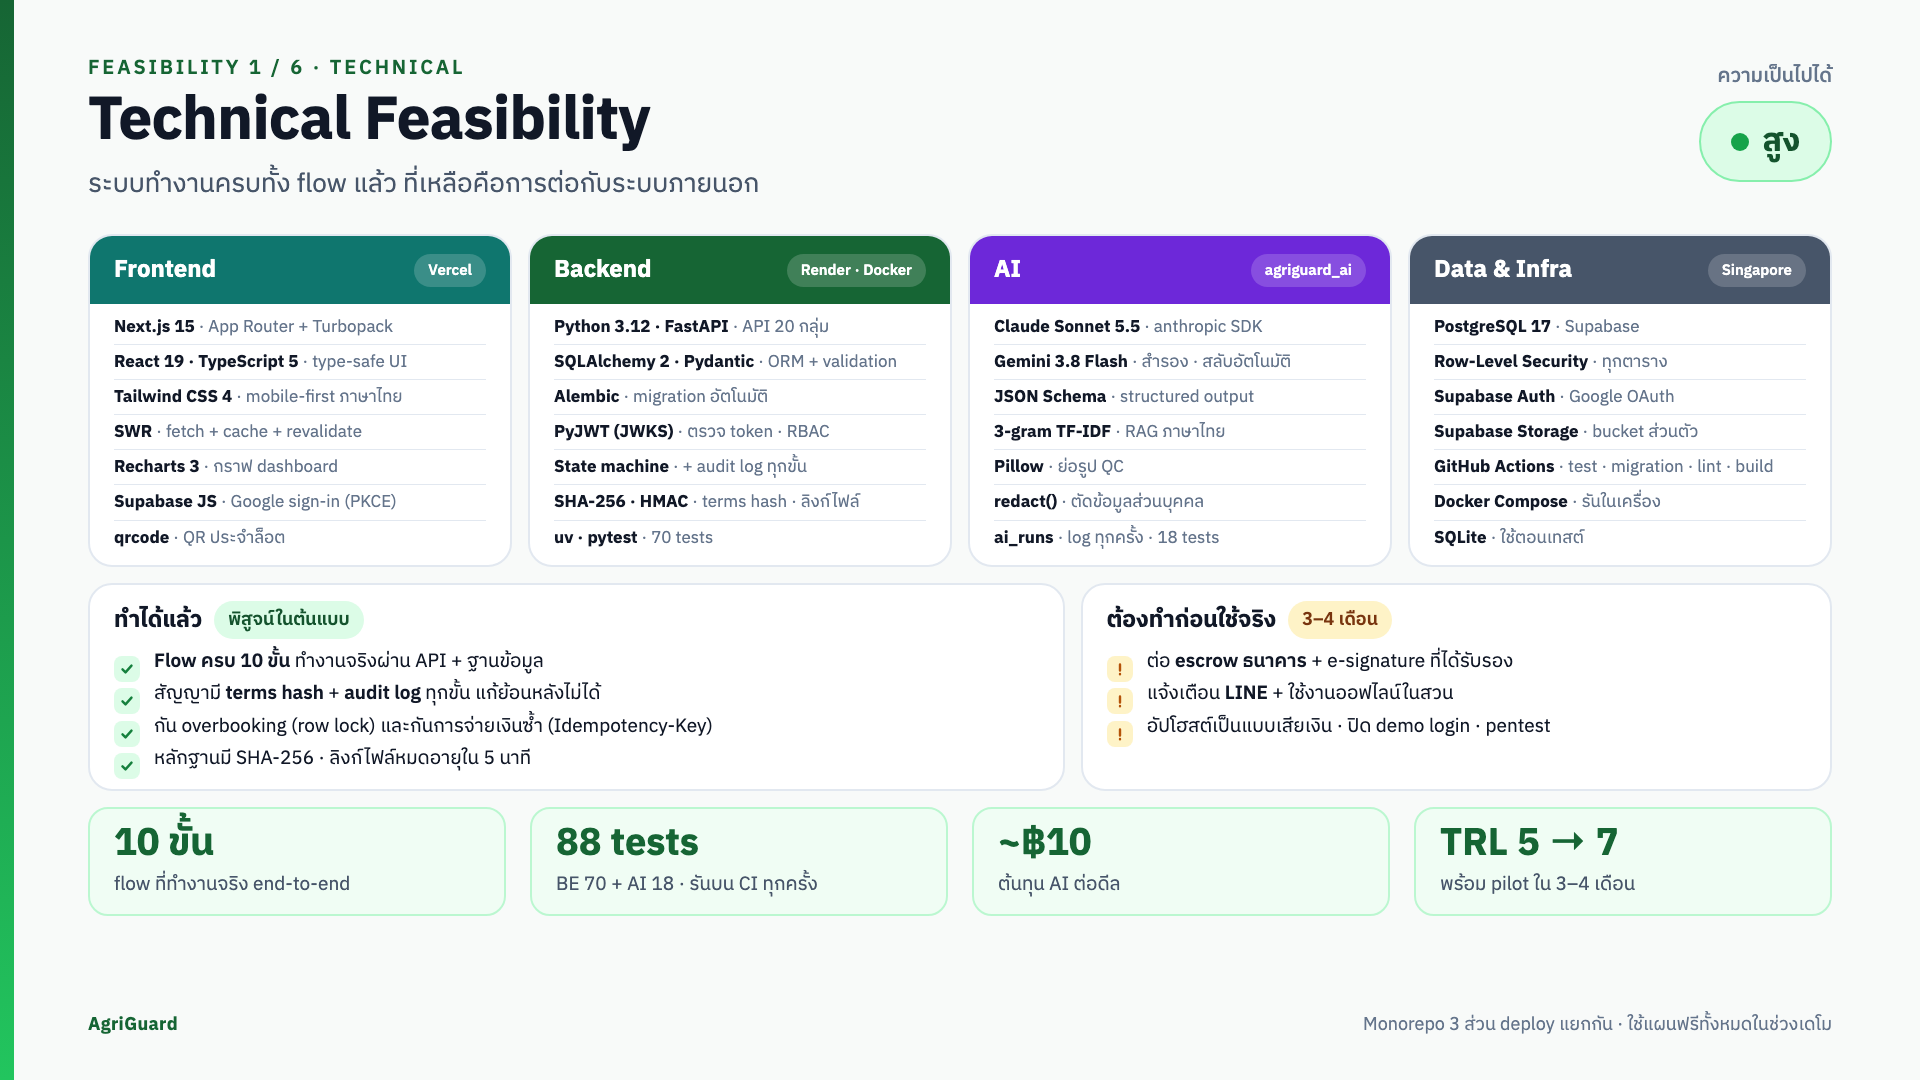
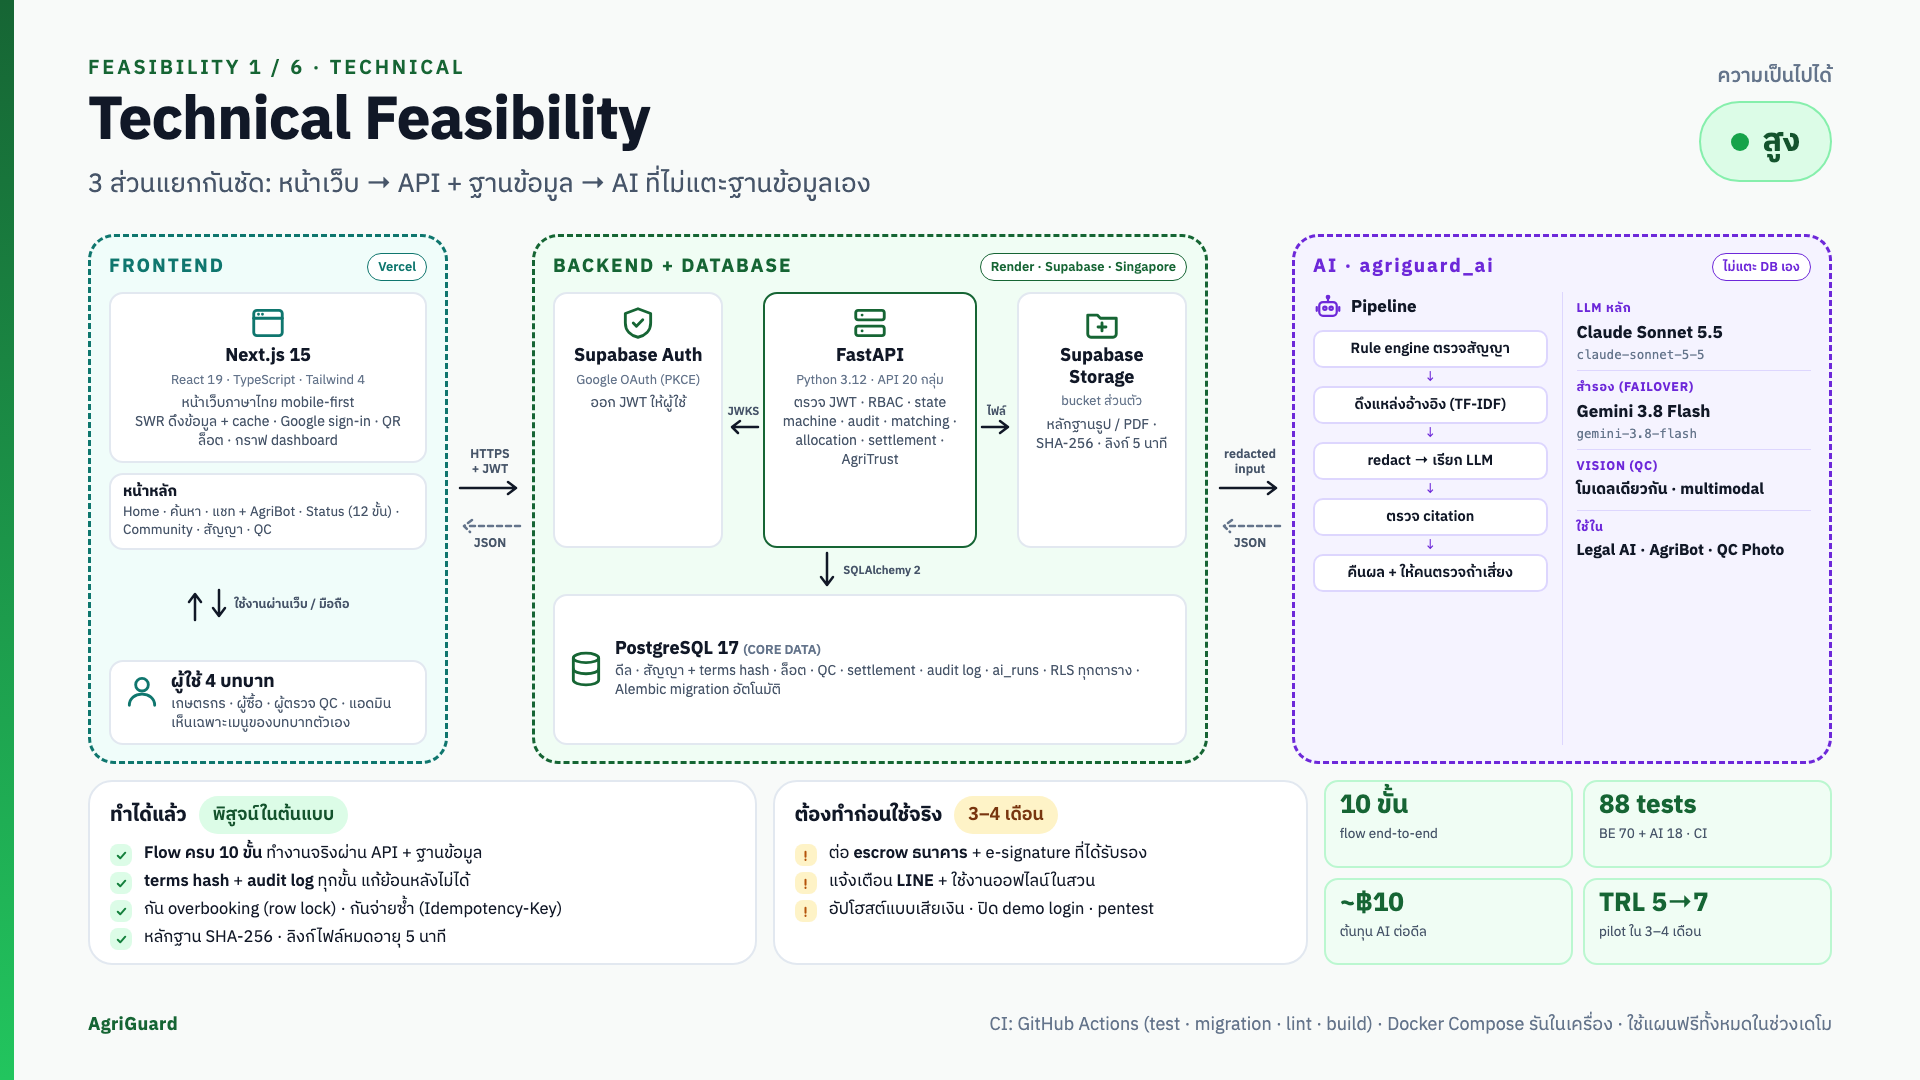
Docs : Show the technical slide as a frontend, backend and AI architecture diagram
- Three zones with arrows (Next.js -> FastAPI + Supabase Auth/Storage + PostgreSQL -> agriguard_ai) and what each part does
- AI zone lists the shared pipeline and the models (Claude Sonnet 5.5, Gemini 3.8 Flash failover)

diff --git a/Appendix/Deck/slides.html b/Appendix/Deck/slides.html
@@ -273,6 +273,47 @@
   #d2 .aitable tr.grp td { padding: 6px 12px 3px; }
   #d2 .pp { padding: 7px 11px; }
   .flowt.tight td.no { font-size: 20px; }
+
+  /* architecture zones (technical slide) */
+  .arch3 { display: grid; grid-template-columns: 360px 84px 1fr 84px 540px; height: 530px; }
+  .z-ai .pl .ic { width: 30px; height: 30px; }
+  .zone { border: 3px dashed; border-radius: 26px; padding: 14px 18px 16px; display: flex; flex-direction: column; min-height: 0; }
+  .zone .zt { font-size: 19px; font-weight: 700; letter-spacing: .1em; margin-bottom: 10px; display: flex; justify-content: space-between; align-items: center; }
+  .zone .zt span { font-size: 13px; font-weight: 600; letter-spacing: 0; background: #fff; border: 1.5px solid currentColor; padding: 2px 10px; border-radius: 999px; }
+  .z-fe { background: #F0FDFA; border-color: #0F766E; } .z-fe .zt { color: #0F766E; }
+  .z-be { background: #F0FDF4; border-color: #166534; } .z-be .zt { color: #166534; }
+  .z-ai { background: #F5F3FF; border-color: #6D28D9; } .z-ai .zt { color: #6D28D9; }
+  .nd { background: #fff; border: 2px solid var(--border); border-radius: 14px; padding: 10px 12px; display: flex; gap: 10px; align-items: flex-start; }
+  .nd.v { flex-direction: column; align-items: center; text-align: center; gap: 4px; }
+  .nd .ic { flex: none; width: 38px; height: 38px; }
+  .nd .nm { font-size: 18px; font-weight: 700; line-height: 1.2; color: var(--ink); }
+  .nd .tc { font-size: 13px; color: var(--muted); line-height: 1.3; }
+  .nd .rl { font-size: 14px; color: var(--ink2); line-height: 1.35; margin-top: 2px; }
+  .z-fe .ic { color: #0F766E; } .z-be .ic { color: #166534; } .z-ai .ic { color: #6D28D9; }
+  .link { display: flex; flex-direction: column; justify-content: center; align-items: center; gap: 22px; }
+  .link .lk { display: flex; flex-direction: column; align-items: center; gap: 2px; }
+  .link .lb { font-size: 12.5px; color: var(--ink2); text-align: center; line-height: 1.25; font-weight: 600; }
+  .vlink { display: flex; align-items: center; justify-content: center; gap: 8px; font-size: 12.5px; font-weight: 600; color: var(--ink2); }
+  .begrid { display: grid; grid-template-columns: 1fr 40px 1.25fr 40px 1fr; grid-template-rows: auto 46px auto; align-items: stretch; flex: 1; }
+  .begrid .ha { display: flex; flex-direction: column; align-items: center; justify-content: center; font-size: 11.5px; color: var(--ink2); font-weight: 600; text-align: center; line-height: 1.2; }
+  .aigrid { display: grid; grid-template-columns: 1fr 1px 1fr; gap: 14px; flex: 1; min-height: 0; }
+  .aigrid .div { background: #DDD6FE; }
+  .steps2 { display: flex; flex-direction: column; align-items: stretch; gap: 0; }
+  .steps2 .st { background: #fff; border: 2px solid #DDD6FE; border-radius: 10px; padding: 5px 10px; font-size: 14.5px; font-weight: 600; text-align: center; }
+  .steps2 .dn { text-align: center; color: #6D28D9; font-size: 14px; line-height: 1; padding: 2px 0; }
+  .mdl { padding: 6px 0 8px; border-bottom: 1px solid #DDD6FE; }
+  .mdl:last-child { border-bottom: none; }
+  .mdl .k { font-size: 12.5px; font-weight: 700; color: #6D28D9; letter-spacing: .06em; }
+  .mdl .n { font-size: 17px; font-weight: 700; }
+  .mdl .c { font-size: 12.5px; color: var(--muted); font-family: ui-monospace, "SF Mono", Menlo, monospace; }
+  .bottom3 { display: grid; grid-template-columns: 1.25fr 1fr 0.95fr; gap: 16px; }
+  .bottom3 .card { padding: 14px 20px; }
+  .bottom3 h3 { font-size: 20px; margin-bottom: 8px; }
+  .bottom3 ul.list li { font-size: 16.5px; padding-left: 34px; }
+  .bottom3 ul.list li::before { width: 22px; height: 22px; top: 2px; background-size: 15px; }
+  .mstats { display: grid; grid-template-columns: 1fr 1fr; gap: 10px; }
+  .mstats .stat { padding: 9px 14px; border-radius: 14px; }
+  .mstats .stat .n { font-size: 26px; } .mstats .stat .l { font-size: 13.5px; }
 </style>
 </head>
 <body>
@@ -282,52 +323,92 @@
     <div>
       <div class="eyebrow">Feasibility 1 / 6 · Technical</div>
       <h1>Technical Feasibility</h1>
-      <div class="sub">ระบบทำงานครบทั้ง flow แล้ว ที่เหลือคือการต่อกับระบบภายนอก</div>
+      <div class="sub">3 ส่วนแยกกันชัด: หน้าเว็บ → API + ฐานข้อมูล → AI ที่ไม่แตะฐานข้อมูลเอง</div>
     </div>
     <div class="verdict"><small>ความเป็นไปได้</small><div class="pill v-high"><i></i>สูง</div></div>
   </header>
-  <div class="body" style="grid-template-rows: auto auto auto; gap: 16px; align-content: start;">
-    <div class="stack4">
-      <div class="col fe"><div class="hd"><b>Frontend</b><span>Vercel</span></div><div class="rows">
-        <div class="li"><b>Next.js 15</b> · App Router + Turbopack</div><div class="li"><b>React 19 · TypeScript 5</b> · type-safe UI</div><div class="li"><b>Tailwind CSS 4</b> · mobile-first ภาษาไทย</div><div class="li"><b>SWR</b> · fetch + cache + revalidate</div><div class="li"><b>Recharts 3</b> · กราฟ dashboard</div><div class="li"><b>Supabase JS</b> · Google sign-in (PKCE)</div><div class="li"><b>qrcode</b> · QR ประจำล็อต</div>
-      </div></div>
-      <div class="col be"><div class="hd"><b>Backend</b><span>Render · Docker</span></div><div class="rows">
-        <div class="li"><b>Python 3.12 · FastAPI</b> · API 20 กลุ่ม</div><div class="li"><b>SQLAlchemy 2 · Pydantic</b> · ORM + validation</div><div class="li"><b>Alembic</b> · migration อัตโนมัติ</div><div class="li"><b>PyJWT (JWKS)</b> · ตรวจ token · RBAC</div><div class="li"><b>State machine</b> · + audit log ทุกขั้น</div><div class="li"><b>SHA-256 · HMAC</b> · terms hash · ลิงก์ไฟล์</div><div class="li"><b>uv · pytest</b> · 70 tests</div>
-      </div></div>
-      <div class="col ai"><div class="hd"><b>AI</b><span>agriguard_ai</span></div><div class="rows">
-        <div class="li"><b>Claude Sonnet 5.5</b> · anthropic SDK</div><div class="li"><b>Gemini 3.8 Flash</b> · สำรอง · สลับอัตโนมัติ</div><div class="li"><b>JSON Schema</b> · structured output</div><div class="li"><b>3-gram TF-IDF</b> · RAG ภาษาไทย</div><div class="li"><b>Pillow</b> · ย่อรูป QC</div><div class="li"><b>redact()</b> · ตัดข้อมูลส่วนบุคคล</div><div class="li"><b>ai_runs</b> · log ทุกครั้ง · 18 tests</div>
-      </div></div>
-      <div class="col inf"><div class="hd"><b>Data &amp; Infra</b><span>Singapore</span></div><div class="rows">
-        <div class="li"><b>PostgreSQL 17</b> · Supabase</div><div class="li"><b>Row-Level Security</b> · ทุกตาราง</div><div class="li"><b>Supabase Auth</b> · Google OAuth</div><div class="li"><b>Supabase Storage</b> · bucket ส่วนตัว</div><div class="li"><b>GitHub Actions</b> · test · migration · lint · build</div><div class="li"><b>Docker Compose</b> · รันในเครื่อง</div><div class="li"><b>SQLite</b> · ใช้ตอนเทสต์</div>
-      </div></div>
+  <div class="body" style="grid-template-rows: auto auto; gap: 16px; align-content: start;">
+    <div class="arch3">
+      <div class="zone z-fe">
+        <div class="zt">FRONTEND <span>Vercel</span></div>
+        <div class="nd v"><svg class="ic" viewBox="0 0 24 24" fill="none" stroke="currentColor" stroke-width="1.8" stroke-linecap="round" stroke-linejoin="round"><rect x="3" y="4" width="18" height="16" rx="2"/><path d="M3 9h18"/><path d="M6 6.5h.01M8.5 6.5h.01"/></svg><div class="nm">Next.js 15</div><div class="tc">React 19 · TypeScript · Tailwind 4</div>
+          <div class="rl">หน้าเว็บภาษาไทย mobile-first<br>SWR ดึงข้อมูล + cache · Google sign-in · QR ล็อต · กราฟ dashboard</div></div>
+        <div class="nd" style="margin-top: 10px; padding: 8px 12px;"><div><div class="nm" style="font-size: 15px;">หน้าหลัก</div><div class="rl" style="font-size: 13.5px;">Home · ค้นหา · แชท + AgriBot · Status (12 ขั้น) · Community · สัญญา · QC</div></div></div>
+        <div class="vlink" style="flex: 1;"><svg width="16" height="34" viewBox="0 0 16 34"><path d="M8 32V8M2 14l6-8 6 8" fill="none" stroke="#111827" stroke-width="2.5" stroke-linecap="round" stroke-linejoin="round"/></svg><svg width="16" height="34" viewBox="0 0 16 34"><path d="M8 2v26M2 20l6 8 6-8" fill="none" stroke="#111827" stroke-width="2.5" stroke-linecap="round" stroke-linejoin="round"/></svg><span>ใช้งานผ่านเว็บ / มือถือ</span></div>
+        <div class="nd"><svg class="ic" viewBox="0 0 24 24" fill="none" stroke="currentColor" stroke-width="1.8" stroke-linecap="round" stroke-linejoin="round"><circle cx="12" cy="8" r="4"/><path d="M4 21c0-4.4 3.6-7 8-7s8 2.6 8 7"/></svg><div><div class="nm">ผู้ใช้ 4 บทบาท</div><div class="rl">เกษตรกร · ผู้ซื้อ · ผู้ตรวจ QC · แอดมิน<br>เห็นเฉพาะเมนูของบทบาทตัวเอง</div></div></div>
+      </div>
+      <div class="link">
+        <div class="lk"><div class="lb">HTTPS<br>+ JWT</div><svg width="64" height="16" viewBox="0 0 64 16"><path d="M2 8h56M50 2l8 6-8 6" fill="none" stroke="#111827" stroke-width="2.5" stroke-linecap="round" stroke-linejoin="round"/></svg></div>
+        <div class="lk"><svg width="64" height="16" viewBox="0 0 64 16"><path d="M62 8H8M14 2L6 8l6 6" fill="none" stroke="#64748B" stroke-width="2.5" stroke-linecap="round" stroke-linejoin="round" stroke-dasharray="5 4"/></svg><div class="lb">JSON</div></div>
+      </div>
+      <div class="zone z-be">
+        <div class="zt">BACKEND + DATABASE <span>Render · Supabase · Singapore</span></div>
+        <div class="begrid">
+          <div class="nd v"><svg class="ic" viewBox="0 0 24 24" fill="none" stroke="currentColor" stroke-width="1.8" stroke-linecap="round" stroke-linejoin="round"><path d="M12 3l8 3v6c0 5-3.5 8-8 9-4.5-1-8-4-8-9V6z"/><path d="M9 12l2 2 4-4"/></svg><div class="nm">Supabase Auth</div><div class="tc">Google OAuth (PKCE)</div><div class="rl">ออก JWT ให้ผู้ใช้</div></div>
+          <div class="ha">JWKS<svg width="34" height="16" viewBox="0 0 34 16"><path d="M32 8H8M14 2L6 8l6 6" fill="none" stroke="#111827" stroke-width="2.5" stroke-linecap="round" stroke-linejoin="round"/></svg></div>
+          <div class="nd v" style="border-color:#166534;"><svg class="ic" viewBox="0 0 24 24" fill="none" stroke="currentColor" stroke-width="1.8" stroke-linecap="round" stroke-linejoin="round"><rect x="3" y="4" width="18" height="6" rx="1.5"/><rect x="3" y="14" width="18" height="6" rx="1.5"/><path d="M7 7h.01M7 17h.01"/></svg><div class="nm">FastAPI</div><div class="tc">Python 3.12 · API 20 กลุ่ม</div><div class="rl">ตรวจ JWT · RBAC · state machine · audit · matching · allocation · settlement · AgriTrust</div></div>
+          <div class="ha">ไฟล์<svg width="34" height="16" viewBox="0 0 34 16"><path d="M2 8h26M20 2l8 6-8 6" fill="none" stroke="#111827" stroke-width="2.5" stroke-linecap="round" stroke-linejoin="round"/></svg></div>
+          <div class="nd v"><svg class="ic" viewBox="0 0 24 24" fill="none" stroke="currentColor" stroke-width="1.8" stroke-linecap="round" stroke-linejoin="round"><path d="M3 7h6l2 2h10v10a2 2 0 0 1-2 2H5a2 2 0 0 1-2-2z"/><path d="M12 12v5M9.5 14.5h5"/></svg><div class="nm">Supabase Storage</div><div class="tc">bucket ส่วนตัว</div><div class="rl">หลักฐานรูป / PDF · SHA-256 · ลิงก์ 5 นาที</div></div>
+          <div></div><div></div>
+          <div class="ha" style="flex-direction: row; gap: 8px;"><svg width="16" height="40" viewBox="0 0 16 40"><path d="M8 2v32M2 26l6 8 6-8" fill="none" stroke="#111827" stroke-width="2.5" stroke-linecap="round" stroke-linejoin="round"/></svg><span>SQLAlchemy 2</span></div>
+          <div></div><div></div>
+          <div class="nd" style="grid-column: 1 / 6; align-items: center;"><svg class="ic" viewBox="0 0 24 24" fill="none" stroke="currentColor" stroke-width="1.8" stroke-linecap="round" stroke-linejoin="round"><ellipse cx="12" cy="5" rx="8" ry="3"/><path d="M4 5v14c0 1.7 3.6 3 8 3s8-1.3 8-3V5"/><path d="M4 12c0 1.7 3.6 3 8 3s8-1.3 8-3"/></svg><div><div class="nm">PostgreSQL 17 <span style="font-size: 13px; color: var(--muted); font-weight: 600;">(CORE DATA)</span></div><div class="rl">ดีล · สัญญา + terms hash · ล็อต · QC · settlement · audit log · ai_runs · RLS ทุกตาราง · Alembic migration อัตโนมัติ</div></div></div>
+        </div>
+      </div>
+      <div class="link">
+        <div class="lk"><div class="lb">redacted<br>input</div><svg width="64" height="16" viewBox="0 0 64 16"><path d="M2 8h56M50 2l8 6-8 6" fill="none" stroke="#111827" stroke-width="2.5" stroke-linecap="round" stroke-linejoin="round"/></svg></div>
+        <div class="lk"><svg width="64" height="16" viewBox="0 0 64 16"><path d="M62 8H8M14 2L6 8l6 6" fill="none" stroke="#64748B" stroke-width="2.5" stroke-linecap="round" stroke-linejoin="round" stroke-dasharray="5 4"/></svg><div class="lb">JSON</div></div>
+      </div>
+      <div class="zone z-ai">
+        <div class="zt">AI · agriguard_ai <span>ไม่แตะ DB เอง</span></div>
+        <div class="aigrid">
+          <div>
+            <div class="pl" style="display:flex; align-items:center; gap: 8px; margin-bottom: 8px;"><svg class="ic" viewBox="0 0 24 24" fill="none" stroke="currentColor" stroke-width="1.8" stroke-linecap="round" stroke-linejoin="round"><rect x="5" y="8" width="14" height="11" rx="3"/><circle cx="9.5" cy="13" r="1.3"/><circle cx="14.5" cy="13" r="1.3"/><path d="M12 8V5"/><circle cx="12" cy="4" r="1"/><path d="M3 12v3M21 12v3"/></svg><div class="nm" style="font-size: 17px; font-weight: 700;">Pipeline</div></div>
+            <div class="steps2">
+              <div class="st">Rule engine ตรวจสัญญา</div><div class="dn">↓</div>
+              <div class="st">ดึงแหล่งอ้างอิง (TF-IDF)</div><div class="dn">↓</div>
+              <div class="st">redact → เรียก LLM</div><div class="dn">↓</div>
+              <div class="st">ตรวจ citation</div><div class="dn">↓</div>
+              <div class="st">คืนผล + ให้คนตรวจถ้าเสี่ยง</div>
+            </div>
+          </div>
+          <div class="div"></div>
+          <div>
+            <div class="mdl"><div class="k">LLM หลัก</div><div class="n">Claude Sonnet 5.5</div><div class="c">claude-sonnet-5-5</div></div>
+            <div class="mdl"><div class="k">สำรอง (FAILOVER)</div><div class="n">Gemini 3.8 Flash</div><div class="c">gemini-3.8-flash</div></div>
+            <div class="mdl"><div class="k">VISION (QC)</div><div class="n" style="font-size: 15.5px;">โมเดลเดียวกัน · multimodal</div></div>
+            <div class="mdl"><div class="k">ใช้ใน</div><div class="n" style="font-size: 15.5px;">Legal AI · AgriBot · QC Photo</div></div>
+          </div>
+        </div>
+      </div>
     </div>
-    <div style="display:grid; grid-template-columns: 1.3fr 1fr; gap: 16px;">
-      <div class="card" style="padding: 16px 24px;">
-        <h3 style="font-size: 23px; margin-bottom: 10px;">ทำได้แล้ว <span class="tag ok">พิสูจน์ในต้นแบบ</span></h3>
-        <ul class="list check" style="gap: 6px;">
-          <li style="font-size: 19px;"><b>Flow ครบ 10 ขั้น</b> ทำงานจริงผ่าน API + ฐานข้อมูล</li>
-          <li style="font-size: 19px;">สัญญามี <b>terms hash</b> + <b>audit log</b> ทุกขั้น แก้ย้อนหลังไม่ได้</li>
-          <li style="font-size: 19px;">กัน overbooking (row lock) และกันการจ่ายเงินซ้ำ (Idempotency-Key)</li>
-          <li style="font-size: 19px;">หลักฐานมี SHA-256 · ลิงก์ไฟล์หมดอายุใน 5 นาที</li>
+    <div class="bottom3">
+      <div class="card">
+        <h3>ทำได้แล้ว <span class="tag ok">พิสูจน์ในต้นแบบ</span></h3>
+        <ul class="list check" style="gap: 5px;">
+          <li><b>Flow ครบ 10 ขั้น</b> ทำงานจริงผ่าน API + ฐานข้อมูล</li>
+          <li><b>terms hash</b> + <b>audit log</b> ทุกขั้น แก้ย้อนหลังไม่ได้</li>
+          <li>กัน overbooking (row lock) · กันจ่ายซ้ำ (Idempotency-Key)</li>
+          <li>หลักฐาน SHA-256 · ลิงก์ไฟล์หมดอายุ 5 นาที</li>
         </ul>
       </div>
-      <div class="card" style="padding: 16px 24px;">
-        <h3 style="font-size: 23px; margin-bottom: 10px;">ต้องทำก่อนใช้จริง <span class="tag todo">3–4 เดือน</span></h3>
-        <ul class="list todo" style="gap: 6px;">
-          <li style="font-size: 19px;">ต่อ <b>escrow ธนาคาร</b> + e-signature ที่ได้รับรอง</li>
-          <li style="font-size: 19px;">แจ้งเตือน <b>LINE</b> + ใช้งานออฟไลน์ในสวน</li>
-          <li style="font-size: 19px;">อัปโฮสต์เป็นแบบเสียเงิน · ปิด demo login · pentest</li>
+      <div class="card">
+        <h3>ต้องทำก่อนใช้จริง <span class="tag todo">3–4 เดือน</span></h3>
+        <ul class="list todo" style="gap: 5px;">
+          <li>ต่อ <b>escrow ธนาคาร</b> + e-signature ที่ได้รับรอง</li>
+          <li>แจ้งเตือน <b>LINE</b> + ใช้งานออฟไลน์ในสวน</li>
+          <li>อัปโฮสต์แบบเสียเงิน · ปิด demo login · pentest</li>
         </ul>
       </div>
-    </div>
-    <div class="stats">
-      <div class="stat"><div class="n">10 ขั้น</div><div class="l">flow ที่ทำงานจริง end-to-end</div></div>
-      <div class="stat"><div class="n">88 tests</div><div class="l">BE 70 + AI 18 · รันบน CI ทุกครั้ง</div></div>
-      <div class="stat"><div class="n">~฿10</div><div class="l">ต้นทุน AI ต่อดีล</div></div>
-      <div class="stat"><div class="n">TRL 5 → 7</div><div class="l">พร้อม pilot ใน 3–4 เดือน</div></div>
+      <div class="mstats">
+        <div class="stat"><div class="n">10 ขั้น</div><div class="l">flow end-to-end</div></div>
+        <div class="stat"><div class="n">88 tests</div><div class="l">BE 70 + AI 18 · CI</div></div>
+        <div class="stat"><div class="n">~฿10</div><div class="l">ต้นทุน AI ต่อดีล</div></div>
+        <div class="stat"><div class="n">TRL 5→7</div><div class="l">pilot ใน 3–4 เดือน</div></div>
+      </div>
     </div>
   </div>
-  <footer><span class="brand">AgriGuard</span><span>Monorepo 3 ส่วน deploy แยกกัน · ใช้แผนฟรีทั้งหมดในช่วงเดโม</span></footer>
+  <footer><span class="brand">AgriGuard</span><span>CI: GitHub Actions (test · migration · lint · build) · Docker Compose รันในเครื่อง · ใช้แผนฟรีทั้งหมดในช่วงเดโม</span></footer>
 </section>
 
 <section class="slide" id="d2">
